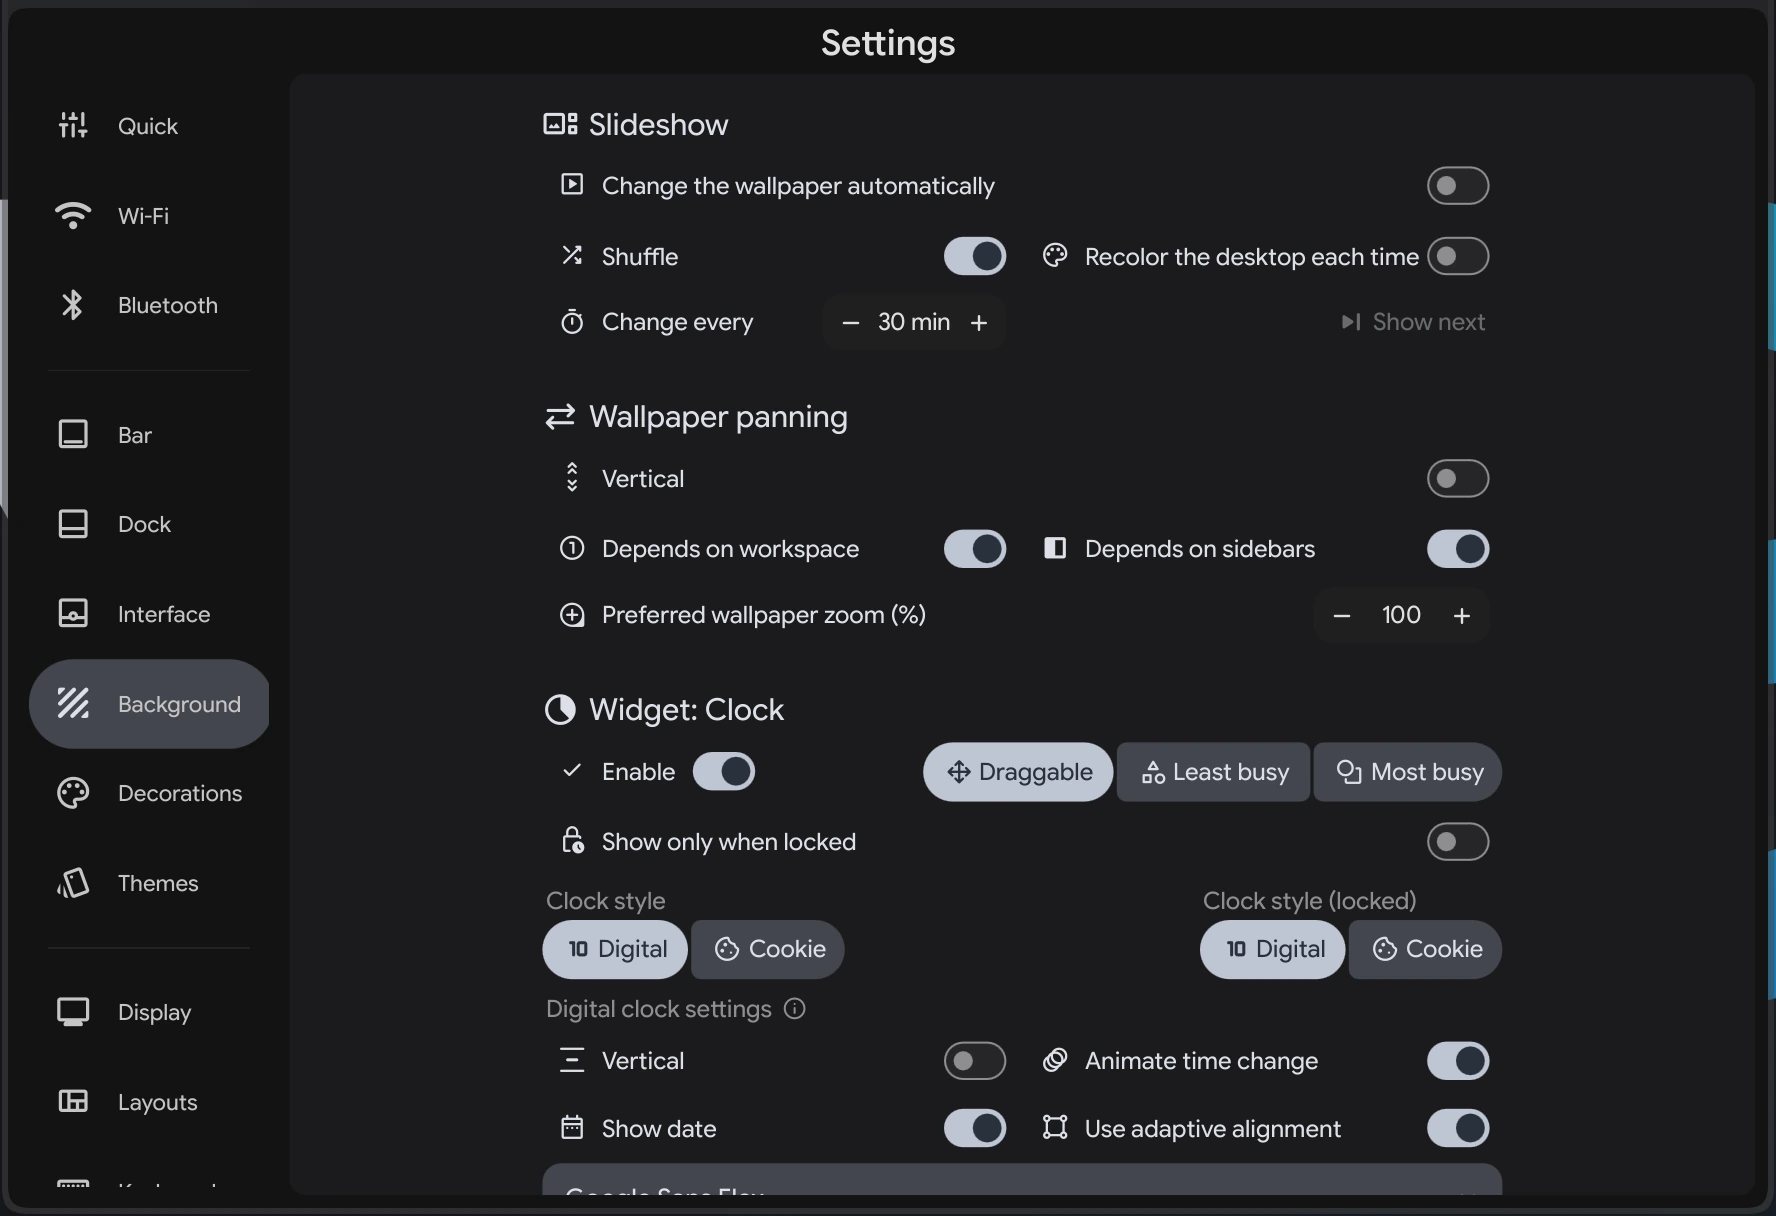
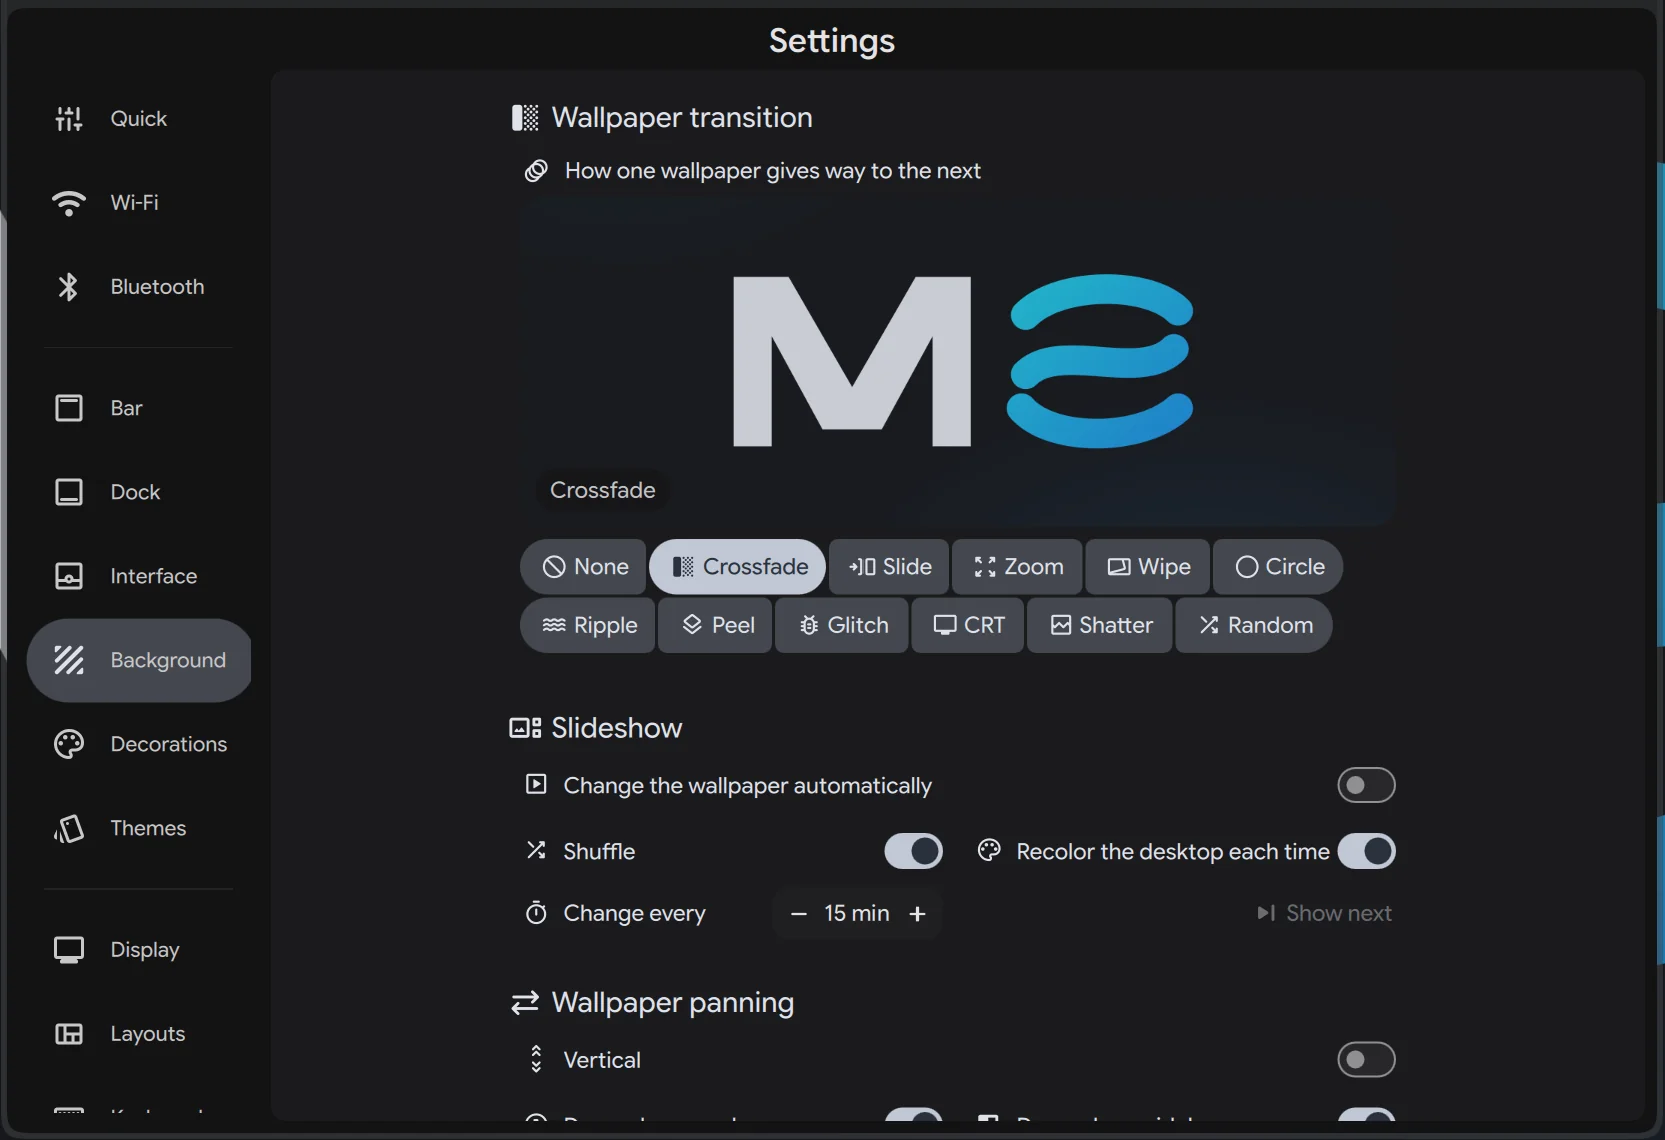
docs: current shots for the Background page
The two it carried predate the transitions, the frosted backdrops and the
widget grid, so all three are new and each sits with the section it shows
rather than as a pair at the top.

They also settle two names the page had guessed at. The settings page calls
them Media player and Picture, not Media and your own image. Lock widget
positions was never written down at all.

diff --git a/docs-pages.js b/docs-pages.js
@@ -651,7 +651,8 @@ PAGES.background = {
   group: 'Settings', title: 'Background', icon: 'bg',
   lede: 'How the wallpaper behaves, how one picture transitions to the next, and the eleven widgets that live on top of it.',
   render: () => `
-    ${twoShot('BackgroundConfig-1.webp','Wallpaper panning, Clock widget.','BackgroundConfig-2.webp','Digital clock styling, Weather widget.')}
+
+    ${shot('BackgroundConfig-1.webp','The Background settings page showing the wallpaper transition picker with its looping preview','Every transition, with a preview above the picker playing the one you have chosen.')}
 
     <h2>Wallpaper transitions</h2>
     <p>Changing the wallpaper does not have to be a hard cut. Pick how one picture transitions to the next and the preview above the picker plays your choice on a loop, so you can judge it before you commit.</p>
@@ -676,6 +677,8 @@ PAGES.background = {
     <h2>Video wallpapers</h2>
     <p>Pick a video the same way you pick a picture and it plays as your background — nothing to install first, and the colors are drawn from it just as they are from a still image. The picker shows your wallpapers as thumbnails, and a newly chosen one appears immediately while its palette is worked out in the background.</p>
 
+    ${shot('BackgroundConfig-2.webp','Wallpaper panning, the frosted widget backgrounds switch, and the clock widget settings','Panning, the frosted backgrounds switch, and the start of the clock settings.')}
+
     <h2>Wallpaper panning</h2>
     <p>Controls how the wallpaper moves as you switch workspaces and toggle sidebars. The default feel is a gentle parallax that echoes the ripples in the mark.</p>
 
@@ -686,31 +689,7 @@ PAGES.background = {
       <div class="prop"><center><div class="k">Preferred wallpaper zoom (%)</div></center><div class="v">Baseline zoom level. 100% shows the image at screen size; &gt;100% crops in and gives panning more room.</div></div>
     </div>
 
-    <h2>Widgets on the wallpaper</h2>
-    <p>Eleven widgets can sit on the desktop, each switched on and placed on its own. Drag one where you want it and it stays there, remembered as a share of the screen rather than a pixel position, so one theme lays your desktop out the same way on a laptop panel and a 4K monitor alike.</p>
-
-    <div class="props">
-      <div class="prop"><center><div class="k">Clock</div></center><div class="v">The big time readout. Three styles, covered below.</div></div>
-      <div class="prop"><center><div class="k">Weather</div></center><div class="v">Icon, temperature and forecast, from the same source as the bar.</div></div>
-      <div class="prop"><center><div class="k">Calendar</div></center><div class="v">The month at a glance, with today marked.</div></div>
-      <div class="prop"><center><div class="k">World clock</div></center><div class="v">Other time zones beside your own.</div></div>
-      <div class="prop"><center><div class="k">Notes</div></center><div class="v">Short notes kept on the desktop.</div></div>
-      <div class="prop"><center><div class="k">To do</div></center><div class="v">A checklist that lives on the wallpaper.</div></div>
-      <div class="prop"><center><div class="k">Timers</div></center><div class="v">Countdowns you can start and reset in place.</div></div>
-      <div class="prop"><center><div class="k">Resources</div></center><div class="v">Processor, memory and disk at a glance.</div></div>
-      <div class="prop"><center><div class="k">Media</div></center><div class="v">What is playing, with controls.</div></div>
-      <div class="prop"><center><div class="k">Visualizer</div></center><div class="v">Audio drawn as it plays.</div></div>
-      <div class="prop"><center><div class="k">Your own image</div></center><div class="v">Any picture, placed on the desktop.</div></div>
-    </div>
-
-    <h3>Where each widget sits</h3>
-    <div class="props">
-      <div class="prop"><center><div class="k">Draggable</div></center><div class="v">Put it exactly where you want by hand.</div></div>
-      <div class="prop"><center><div class="k">Least busy</div></center><div class="v">Finds the emptiest part of the wallpaper and sits there.</div></div>
-      <div class="prop"><center><div class="k">Most busy</div></center><div class="v">Sits inside the detail of the picture, as a deliberate hero element.</div></div>
-    </div>
-
-    <h3>Frosted glass</h3>
+    <h2>Frosted glass</h2>
     <p>Switch on <b>Frosted widget backgrounds</b> and every widget card blurs the wallpaper behind it instead of sitting on a flat color, with a slider for how soft the blur is.</p>
     <p>It ships off. Each card that is on pays for its own blur, so a machine with older graphics is left alone unless you ask for it, and nothing is built at all while the switch is off.</p>
 
@@ -752,6 +731,34 @@ PAGES.background = {
 
     <h2>Widget: Weather</h2>
     <p>A compact weather card with icon, temperature, and forecast. Same data source as the bar\'s weather module. Positioning controls mirror the Clock widget — Draggable / Least busy / Most busy.</p>
+
+    ${shot('BackgroundConfig-3.webp','The More widgets grid with a switch for each of the nine remaining widgets','The rest of the widgets sit in one grid, each with its own switch.')}
+
+    <h2>Widgets on the wallpaper</h2>
+    <p>Eleven widgets can sit on the desktop, each switched on and placed on its own. Drag one where you want it and it stays there, remembered as a share of the screen rather than a pixel position, so one theme lays your desktop out the same way on a laptop panel and a 4K monitor alike.</p>
+
+    <div class="props">
+      <div class="prop"><center><div class="k">Clock</div></center><div class="v">The big time readout. Three styles, covered below.</div></div>
+      <div class="prop"><center><div class="k">Weather</div></center><div class="v">Icon, temperature and forecast, from the same source as the bar.</div></div>
+      <div class="prop"><center><div class="k">Calendar</div></center><div class="v">The month at a glance, with today marked.</div></div>
+      <div class="prop"><center><div class="k">World clock</div></center><div class="v">Other time zones beside your own.</div></div>
+      <div class="prop"><center><div class="k">Notes</div></center><div class="v">Short notes kept on the desktop.</div></div>
+      <div class="prop"><center><div class="k">To do</div></center><div class="v">A checklist that lives on the wallpaper.</div></div>
+      <div class="prop"><center><div class="k">Timers</div></center><div class="v">Countdowns you can start and reset in place.</div></div>
+      <div class="prop"><center><div class="k">Resources</div></center><div class="v">Processor, memory and disk at a glance.</div></div>
+      <div class="prop"><center><div class="k">Media player</div></center><div class="v">What is playing, with controls.</div></div>
+      <div class="prop"><center><div class="k">Visualizer</div></center><div class="v">Audio drawn as it plays.</div></div>
+      <div class="prop"><center><div class="k">Picture</div></center><div class="v">Any image of your own, placed on the desktop.</div></div>
+    </div>
+
+    <h3>Where each widget sits</h3>
+    <div class="props">
+      <div class="prop"><center><div class="k">Draggable</div></center><div class="v">Put it exactly where you want by hand.</div></div>
+      <div class="prop"><center><div class="k">Least busy</div></center><div class="v">Finds the emptiest part of the wallpaper and sits there.</div></div>
+      <div class="prop"><center><div class="k">Most busy</div></center><div class="v">Sits inside the detail of the picture, as a deliberate hero element.</div></div>
+      <div class="prop"><center><div class="k">Lock widget positions</div></center><div class="v">Pins every widget where it stands, so a stray drag cannot move one.</div></div>
+    </div>
+
   `
 };
 

diff --git a/index.html b/index.html
@@ -402,7 +402,7 @@
   </div>
 </div>
 
-<script src="docs-pages.js?v=152"></script>
+<script src="docs-pages.js?v=155"></script>
 <script src="welcome-warm.js?v=39"></script>
 <script src="docs-app.js?v=138"></script>
 <script>
